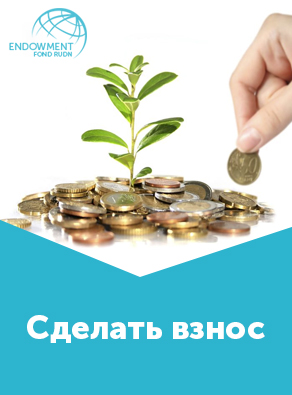
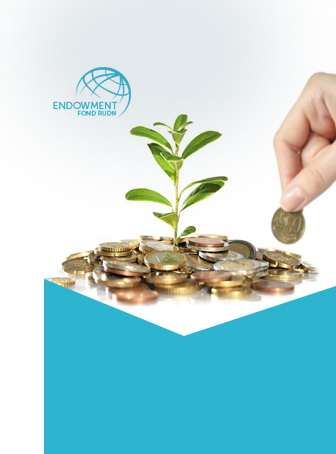
правки

diff --git a/css/alexandr.css b/css/alexandr.css
@@ -4,7 +4,7 @@
 .padt27{padding-top: 27px;}
 .mar{margin:9px 20px 10px 9px;}
 .overh{overflow: hidden;}
-.develop_box{padding-left: 7px;}
+.develop_box{padding-left: 27px;}
 .title1{
 	font-size: 28px;
 	line-height: 35px;
@@ -54,7 +54,7 @@
 .developments{
 	overflow: hidden;
 	width: 606px;
-	margin-right: 44px;
+	/*margin-right: 44px;*/
 	margin-left: 3px;
 	padding-top: 19px;
 } 
@@ -65,6 +65,7 @@
 	height: 59px;
 	text-align: center;
 	margin-right: 30px;
+	margin-top: 13px;
 }
 .date_number{
 	font: 33px/14px 'MuseoSansCyrl';
@@ -76,24 +77,33 @@
 	color:#ffffff; 
 	padding-top: 3px;
 }
-.bb17>h4{
+.bb17>h4 a{
 	color: #2f2f2f;
 	font: 800 15px 'MuseoSansCyrl';
-	padding-bottom: 21px;
 	float: left;
 }
+.bb17>h4 a:hover{color: #aaaaaa}
 
 .bb17 p{
 	color:#787878;
 	font: 13px 'MuseoSansCyrl';
 	float: left;
+	padding-top: 21px;
 	padding-bottom: 17px;
 	border-bottom: 1px solid #e7e7e7;
 }
 .born{border:none !important;}
 .pt41{padding-top: 38px;}
-.endowment_img{margin-top: -29px;}
+.endowment_img{margin-top: -83px;display: block;}
 .patrons_box{padding:0 15px 38px 20px;}
+.endowment_word{
+	font-size:33px;
+	color: #ffffff;
+	display: block;
+	margin: -85px 0 0 68px;
+	position: absolute;
+}
+.endowment_word:hover{color: #2f2f2f;}
 /*===================================Dummy====================================*/
 .padb14{margin-bottom: 11px;}
 .dammy_img-main{height: 320px;overflow: hidden;}
@@ -115,7 +125,7 @@
 .padt10{padding-top: 10px;}
 .details {padding: 7px 12px 3px 17px;}
 .details:after {margin:0 0 0 10px;}
-.flax_banner_text {margin-bottom:8px;}
+.dummy .flax_banner_text {margin-bottom:8px;}
 .flax_banner figure {
 	text-align: center;
 	padding-bottom: 20px;

diff --git a/components/patrons.php b/components/patrons.php
@@ -63,7 +63,9 @@
                   </span>
                   <div class="bb17 wrapper">
                     <h4>
-                        Иранские выпускники и студенты РУДН провели День культуры и  искусства Ирана.
+                        <a href="">
+                          Иранские выпускники и студенты РУДН провели День культуры и  искусства Ирана.
+                        </a>
                     </h4>
                     <p>
                       В этом году конференция будет посвящена следующим вопросам: проблемам межкультурного В этом году конференция будет посвящена следующим 
@@ -77,7 +79,9 @@
                   </span>
                   <div class="bb17 wrapper">
                     <h4>
-                      Иранские выпускники и студенты РУДН провели День культуры и  искусства Ирана.
+                      <a href="#">
+                        Иранские выпускники и студенты РУДН провели День культуры и  искусства Ирана.
+                      </a>
                     </h4>
                     <p>
                       В этом году конференция будет посвящена следующим вопросам: проблемам  межкультурного В этом году конференция будет посвящена следующим 
@@ -91,7 +95,9 @@
                   </span>
                   <div class="bb17 wrapper">
                     <h4>
+                      <a href="">
                         Иранские выпускники и студенты РУДН провели День культуры и  искусства Ирана.
+                      </a>
                     </h4>
                     <p class="born">
                       В этом году конференция будет посвящена следующим вопросам: проблемам  межкультурного В этом году конференция будет посвящена следующим 
@@ -101,7 +107,10 @@
               </ul>
             </div>
             <div class="endowment_img f_left">
-              <img src="images/endowment.jpg" alt="">
+              <a href="#">
+                <img src="images/endowment.jpg" alt="">
+                <span class="endowment_word">Сделать взнос</span>
+              </a>
             </div>
           </div> 
 </section>
